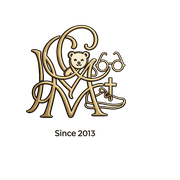
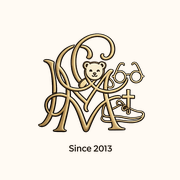
Add files via upload

Changed region(s): [[0.1389, 0.1389, 0.8056, 0.7778], [0.3611, 0.8056, 0.6389, 0.8611]]

diff --git a/index.html b/index.html
@@ -16,6 +16,7 @@ body::before{content:"";position:fixed;inset:0;background-image:var(--logo);back
 .page{display:none;padding:44px 0 84px}.page.active{display:block}.hero{padding:36px 0}.hero-card{position:relative;overflow:hidden;padding:54px;border-radius:40px;background:rgba(255,250,243,.84);border:1px solid var(--line);box-shadow:var(--shadow);display:grid;grid-template-columns:1.25fr .75fr;gap:34px}.cardmark{position:relative;overflow:hidden}.cardmark::after{content:"";position:absolute;right:18px;bottom:16px;width:92px;height:92px;background-image:var(--logo);background-size:cover;background-position:center;opacity:.22;pointer-events:none}.eyebrow{text-transform:uppercase;letter-spacing:.18em;color:var(--gold-deep);font-weight:800;font-size:12px;margin:0 0 14px}h1,h2,h3{font-family:var(--font);font-weight:500;margin:0}h1{font-size:clamp(48px,7vw,88px);line-height:.95;letter-spacing:-.04em}.hero-card p{font-size:18px;color:var(--muted);max-width:780px}.seal{background-image:var(--logo);background-size:cover;background-position:center;border-radius:34px;min-height:260px;box-shadow:inset 0 0 0 1px rgba(142,111,63,.2)}.seal.small{width:120px;height:120px;min-height:0;border-radius:28px;justify-self:end;align-self:center}
 .dashboard-grid{display:grid;grid-template-columns:repeat(3,1fr);gap:16px;margin-top:30px}.day-card{text-align:left;padding:22px;border-radius:26px;background:rgba(255,250,243,.88);border:1px solid var(--line);box-shadow:0 8px 26px rgba(77,55,30,.06);cursor:pointer;min-height:150px}.day-card b{display:block;font-family:var(--font);font-size:30px}.day-card span{display:block;color:var(--muted);font-size:14px;margin-top:8px}.day-card em{display:inline-block;margin-top:18px;color:var(--gold-deep);font-style:normal;font-weight:800}
 .day-hero{padding:34px;border-radius:34px;background:rgba(255,250,243,.86);border:1px solid var(--line);box-shadow:var(--shadow);display:grid;grid-template-columns:1fr auto;align-items:center;gap:22px}.day-hero h2{font-size:48px;letter-spacing:-.03em}.day-hero h3{font-family:var(--sans);font-size:22px;font-weight:650;color:var(--gold-deep);margin-top:4px}.block{margin-top:24px}.block>h3{font-size:30px;margin-bottom:14px}.glance-grid{display:grid;grid-template-columns:repeat(6,1fr);gap:12px}.glance-card{min-height:118px;background:rgba(255,250,243,.88);border:1px solid var(--line);border-radius:24px;padding:18px;box-shadow:0 10px 28px rgba(77,55,30,.06)}.gicon{font-size:28px;margin-bottom:10px}.glance-card b{display:block;font-size:12px;letter-spacing:.12em;text-transform:uppercase;color:var(--gold-deep)}.glance-card span{display:block;font-size:16px;margin-top:4px;font-weight:700}.today,.around,.final-card{background:rgba(255,250,243,.88);border:1px solid var(--line);border-radius:30px;padding:26px;box-shadow:0 12px 32px rgba(77,55,30,.06)}.today p{font-size:18px;color:#4c4036;margin:0}.timeline{display:grid;gap:10px}.timeline-row{background:rgba(255,250,243,.9);border:1px solid var(--line);border-radius:22px;padding:18px;display:grid;grid-template-columns:150px 18px 1fr;gap:14px;align-items:start}.time{font-family:var(--font);color:var(--gold-deep);font-weight:800}.dot{width:10px;height:10px;border-radius:50%;background:var(--gold);margin-top:9px;box-shadow:0 0 0 5px rgba(184,150,94,.13)}.tl-body h4,.activity h4{margin:0;font-size:18px}.tl-body p,.activity p{margin:6px 0 0;color:var(--muted)}.activity-grid{display:grid;grid-template-columns:repeat(2,1fr);gap:16px}.activity{background:rgba(255,250,243,.9);border:1px solid var(--line);border-radius:28px;padding:24px;box-shadow:0 12px 32px rgba(77,55,30,.07)}.activity-head{display:flex;align-items:flex-start;justify-content:space-between;gap:18px}.activity-head span{font-size:12px;color:var(--gold-deep);font-weight:800;letter-spacing:.12em;text-transform:uppercase}.meta{font-size:13px;color:var(--gold-deep);font-weight:800;margin-top:4px}.chips{display:flex;flex-wrap:wrap;gap:8px;margin-top:14px}.chips span{border:1px solid var(--line);border-radius:999px;padding:7px 10px;background:rgba(255,255,255,.48);font-size:12px;font-weight:800;color:var(--muted)}.reaction{display:flex;flex-wrap:wrap;gap:8px;margin:18px 0 12px}.reaction button,.comment-actions button,.mini-actions button{border:1px solid var(--line);background:#fffaf3;border-radius:999px;padding:9px 12px;font-weight:750;cursor:pointer}.reaction button.selected{background:var(--gold-deep);color:white}textarea{width:100%;min-height:82px;border:1px solid var(--line);border-radius:18px;padding:14px;background:rgba(255,255,255,.58);font-family:var(--sans);resize:vertical;color:var(--ink);font-size:16px;line-height:1.45;-webkit-text-size-adjust:100%}textarea[readonly]{background:rgba(255,250,243,.75)}.comment-actions{display:flex;align-items:center;gap:8px;margin-top:10px}.comment-actions span{color:var(--gold-deep);font-size:13px;font-weight:800}
+.map-link{display:inline-flex;align-items:center;gap:4px;margin-top:8px;font-size:12px;font-weight:800;color:var(--gold-deep);text-decoration:none;border:1px solid var(--line);border-radius:999px;padding:5px 10px;background:rgba(255,255,255,.5);width:fit-content}.map-link:hover,.map-link:active{background:rgba(184,150,94,.16)}
 /* Build 10.2.2: saved comment becomes read-only review block */
 .comment-box.is-saved textarea, [data-day-wrap].is-saved > textarea, [data-overall-review].is-saved > textarea{display:none}
 .saved-review-view{border:1px solid rgba(142,111,63,.22);border-radius:20px;background:rgba(255,250,243,.78);padding:14px 16px;margin-top:10px;box-shadow:0 8px 22px rgba(77,55,30,.05)}
@@ -693,7 +694,7 @@ with check (true);</pre>
 <div class="block"><h3>Review Points</h3><div class="activity-grid">
 <article class="activity cardmark" data-card="day1-pho-sol">
 <div class="activity-head">
-<div><h4><span class="tl-emoji">🍜</span>Phở SOL</h4><div class="meta">Arrival Lunch · Hotel Area</div></div>
+<div><h4><span class="tl-emoji">🍜</span>Phở SOL</h4><div class="meta">Arrival Lunch · Hotel Area</div><a class="map-link" href="https://www.google.com/maps/search/?api=1&query=Ph%E1%BB%9F%20SOL%20Ho%20Chi%20Minh%20City" target="_blank" rel="noopener">📍 睇地圖</a></div>
 <span>Selected meal</span>
 </div>
 <p>Day 1 第一餐安排在酒店附近，重點是穩陣、近、容易集合。石鍋河粉有記憶點，但仍然是輕鬆地道第一餐，不會太 heavy。</p>
@@ -716,7 +717,7 @@ with check (true);</pre>
 </article>
 <article class="activity cardmark" data-card="day1-classic-landmarks">
 <div class="activity-head">
-<div><h4><span class="tl-emoji">📍</span>三大經典地標</h4><div class="meta">Classic First Look · Free</div></div>
+<div><h4><span class="tl-emoji">📍</span>三大經典地標</h4><div class="meta">Classic First Look · Free</div><a class="map-link" href="https://www.google.com/maps/search/?api=1&query=Saigon%20Central%20Post%20Office" target="_blank" rel="noopener">📍 睇地圖</a></div>
 <span>Why this plan</span>
 </div>
 <p>這三個點都在酒店附近，適合第一天用最少交通完成西貢第一輪打卡。去完可以先 check-in 休息，也可以直接去 Café Apartments，保留最大彈性。</p>
@@ -739,7 +740,7 @@ with check (true);</pre>
 </article>
 <article class="activity cardmark" data-card="day1-nha-suga-premium">
 <div class="activity-head">
-<div><h4><span class="tl-emoji">🧖</span>Nha Suga Premium</h4><div class="meta">Arrival Spa · VND 500k–800k pp</div></div>
+<div><h4><span class="tl-emoji">🧖</span>Nha Suga Premium</h4><div class="meta">Arrival Spa · VND 500k–800k pp</div><a class="map-link" href="https://www.google.com/maps/search/?api=1&query=Nha%20Suga%20Spa%20Ho%20Chi%20Minh%20City" target="_blank" rel="noopener">📍 睇地圖</a></div>
 <span>Why this plan</span>
 </div>
 <p>抵達日不適合一直硬行。Nha Suga 放在 Café Apartments 同一段，是為了把逛、坐低、放鬆合併處理，讓大家在第一天慢慢進入旅程狀態。</p>
@@ -762,7 +763,7 @@ with check (true);</pre>
 </article>
 <article class="activity cardmark" data-card="day1-omakase-tiger">
 <div class="activity-head">
-<div><h4><span class="tl-emoji">🍷</span>Omakase Tiger</h4><div class="meta">Sunset Counter Dinner · AUD ~$60 pp</div></div>
+<div><h4><span class="tl-emoji">🍷</span>Omakase Tiger</h4><div class="meta">Sunset Counter Dinner · AUD ~$60 pp</div><a class="map-link" href="https://www.google.com/maps/search/?api=1&query=Omakase%20Tiger%20Ho%20Chi%20Minh%20City" target="_blank" rel="noopener">📍 睇地圖</a></div>
 <span>Why this plan</span>
 </div>
 <p>第一天以適應節奏為主。5:30 早場可以欣賞日落，又可提早完成晚餐，讓大家在長途飛行後慢慢調整狀態，不用第一晚已經食到太夜。</p>
@@ -812,7 +813,7 @@ with check (true);</pre>
 <div class="block"><h3>Review Points</h3><div class="activity-grid">
 <article class="activity cardmark" data-card="day2-com-tam-moc">
 <div class="activity-head">
-<div><h4><span class="tl-emoji">🍜</span>Cơm Tấm Mộc</h4><div class="meta">Vietnamese Breakfast · VND 60k–100k pp</div></div>
+<div><h4><span class="tl-emoji">🍜</span>Cơm Tấm Mộc</h4><div class="meta">Vietnamese Breakfast · VND 60k–100k pp</div><a class="map-link" href="https://www.google.com/maps/search/?api=1&query=C%C6%A1m%20T%E1%BA%A5m%20M%E1%BB%99c%20Ho%20Chi%20Minh%20City" target="_blank" rel="noopener">📍 睇地圖</a></div>
 <span>Why this plan</span>
 </div>
 <p>早餐不是為了食得豪，而是想在 Day 2 開始前試一次越南豬扒碎飯。份量可以 share，既有在地感，也不會令後面的 cooking class 太飽。</p>
@@ -835,7 +836,7 @@ with check (true);</pre>
 </article>
 <article class="activity cardmark" data-card="day2-saigon-cooking-class">
 <div class="activity-head">
-<div><h4><span class="tl-emoji">🍳</span>Saigon Cooking Class</h4><div class="meta">Shared Memory · AUD ~$50 pp</div></div>
+<div><h4><span class="tl-emoji">🍳</span>Saigon Cooking Class</h4><div class="meta">Shared Memory · AUD ~$50 pp</div><a class="map-link" href="https://www.google.com/maps/search/?api=1&query=Saigon%20Cooking%20Class%20Ho%20Chi%20Minh%20City" target="_blank" rel="noopener">📍 睇地圖</a></div>
 <span>Why this plan</span>
 </div>
 <p>這段不只是午餐，而是四個朋友一起完成的 shared memory。由學、煮到食，參與感比單純打卡更強，是 Day 2 最值得保留的核心活動。</p>
@@ -858,7 +859,7 @@ with check (true);</pre>
 </article>
 <article class="activity cardmark" data-card="day2-moc-kim-spa">
 <div class="activity-head">
-<div><h4><span class="tl-emoji">🧖</span>Mộc Kim Spa</h4><div class="meta">Post-class Reset · Check package</div></div>
+<div><h4><span class="tl-emoji">🧖</span>Mộc Kim Spa</h4><div class="meta">Post-class Reset · Check package</div><a class="map-link" href="https://www.google.com/maps/search/?api=1&query=M%E1%BB%99c%20Kim%20Spa%20Ho%20Chi%20Minh%20City" target="_blank" rel="noopener">📍 睇地圖</a></div>
 <span>Why this plan</span>
 </div>
 <p>Cooking class 到 1 點完，直接去 Spa 是為了讓下午先有一段真正休息。做完草本洗頭與 head spa，再去逛街會舒服得多。</p>
@@ -881,7 +882,7 @@ with check (true);</pre>
 </article>
 <article class="activity cardmark" data-card="day2-lune">
 <div class="activity-head">
-<div><h4><span class="tl-emoji">🍷</span>LÚNE</h4><div class="meta">Michelin Selected French · VND 800k–1.5m pp</div></div>
+<div><h4><span class="tl-emoji">🍷</span>LÚNE</h4><div class="meta">Michelin Selected French · VND 800k–1.5m pp</div><a class="map-link" href="https://www.google.com/maps/search/?api=1&query=L%C3%9ANE%20Ho%20Chi%20Minh%20City" target="_blank" rel="noopener">📍 睇地圖</a></div>
 <span>Why this plan</span>
 </div>
 <p>LÚNE 放在 Day 2，是因為它接在 D1 shopping 後最順路，而且能滿足旅程中一餐較正式的法餐體驗。相比之後的 Quince，它更偏 contemporary French 與 Michelin selected 的精緻感。</p>
@@ -929,12 +930,14 @@ with check (true);</pre>
 <div class="block today cardmark"><h3>Today’s Plan</h3><p>Day 3 是文青日，不追求逛盡每一間店，而是把 Thảo Điền 當成一個慢生活 neighbourhood。上午先完成蟹肉粉絲與粉紅教堂，再過橋到草田。下午茶、OHQUAO、Mộc Hương、Louh 和 Little Bear 連成一條較舒服的節奏，食唔食、食幾多都由大家自己 buffer。</p></div>
 <div class="block"><h3>Timeline</h3><div class="timeline"><div class="timeline-row cardmark"><div class="time">09:00 – 10:00</div><div class="dot"></div><div class="tl-body"><h4><span class="tl-emoji">🍜</span>Quán Thuý 94</h4><p>蟹肉粉絲早餐，之後步行約 5 分鐘到粉紅教堂。</p></div></div><div class="timeline-row cardmark"><div class="time">10:00 – 10:45</div><div class="dot"></div><div class="tl-body"><h4><span class="tl-emoji">🏛️</span>Pink Church + Cộng Cà Phê</h4><p>快閃打卡；可在 Cộng Cà Phê 高層坐一坐。</p></div></div><div class="timeline-row cardmark"><div class="time">10:45 – 11:30</div><div class="dot"></div><div class="tl-body"><h4><span class="tl-emoji">🚕</span>Grab → Thảo Điền</h4><p>跨橋到草田區，開啟 slower neighbourhood day。</p></div></div><div class="timeline-row cardmark"><div class="time">11:45 – 13:00</div><div class="dot"></div><div class="tl-body"><h4><span class="tl-emoji">🛍️</span>Lifestyle Walk</h4><p>Saigon Concept → In the Mood → Soo Kafe 外帶蛋撻 → YouOn Boutique。</p></div></div><div class="timeline-row cardmark"><div class="time">13:00 – 14:00</div><div class="dot"></div><div class="tl-body"><h4><span class="tl-emoji">☕</span>Afternoon Tea</h4><p>Bakes 或 The Dreamers。食唔食、食幾多自己 buffer；重點是坐低休息。</p></div></div><div class="timeline-row cardmark"><div class="time">14:30 – 15:00</div><div class="dot"></div><div class="tl-body"><h4><span class="tl-emoji">🛍️</span>OHQUAO Living</h4><p>藝術家明信片、香氛、手工藝品。放 Spa 前，趁仍有精神慢慢睇。</p></div></div><div class="timeline-row cardmark"><div class="time">15:30 – 17:30</div><div class="dot"></div><div class="tl-body"><h4><span class="tl-emoji">🧖</span>Mộc Hương Wellness</h4><p>白色法式別墅、蒸氣房、草本熱石水療；可寄存戰利品。</p></div></div><div class="timeline-row cardmark"><div class="time">17:30 – 18:00</div><div class="dot"></div><div class="tl-body"><h4><span class="tl-emoji">🛍️</span>Louh × Alouane</h4><p>高級棉織品家居服，Spa 後慢慢逛，讓節奏降下來。</p></div></div><div class="timeline-row cardmark"><div class="time">18:30 – 20:30</div><div class="dot"></div><div class="tl-body"><h4><span class="tl-emoji">🍷</span>Little Bear</h4><p>Creative Vietnamese，Michelin Guide 入選。Mộc Hương 到 Little Bear 約 3 分鐘 Grab。</p></div></div></div></div>
 <div class="block"><h3>Review Points</h3><div class="activity-grid"><article class="activity cardmark" data-card="day3-quan-thuy-94">
-<div class="activity-head"><div><h4><span class="tl-emoji">🍜</span>Quán Thuý 94</h4><div class="meta">Breakfast · Crab Vermicelli</div></div><span>Selected meal</span></div>
+<div class="activity-head"><div><h4><span class="tl-emoji">🍜</span>Quán Thuý 94</h4><div class="meta">Breakfast · Crab Vermicelli</div><a class="map-link" href="https://www.google.com/maps/search/?api=1&query=Qu%C3%A1n%20Thu%C3%BD%2094%20Ho%20Chi%20Minh%20City" target="_blank" rel="noopener">📍 睇地圖</a></div>
+<span>Selected meal</span></div>
 <p>Day 3 早餐用蟹肉粉絲開場，之後順路去粉紅教堂。這餐是地道小店感覺，適合放在文青日之前，先補一個 local food memory。</p><div class="chips"><span>Breakfast</span><span>Crab vermicelli</span><span>Near Pink Church</span></div>
 <div class="reaction"><button data-reaction="keep">👍 Keep</button><button data-reaction="discuss">🤔 Discuss</button><button data-reaction="replace">🔁 Replace</button></div>
 <div class="comment-box"><textarea placeholder="Optional comment / 對 Quán Thuý 94 有咩想法…"></textarea><div class="comment-actions"><button data-save="">Save</button><button data-edit="" hidden="">Edit</button><button data-clear="" hidden="">Clear</button><span data-status=""></span></div><div class="review-thread" data-thread=""></div></div>
 </article><article class="activity cardmark" data-card="day3-pink-church">
-<div class="activity-head"><div><h4><span class="tl-emoji">🏛️</span>Pink Church + Cộng Cà Phê</h4><div class="meta">Photo Stop · District 3</div></div><span>Selected sight</span></div>
+<div class="activity-head"><div><h4><span class="tl-emoji">🏛️</span>Pink Church + Cộng Cà Phê</h4><div class="meta">Photo Stop · District 3</div><a class="map-link" href="https://www.google.com/maps/search/?api=1&query=T%C3%A2n%20%C4%90%E1%BB%8Bnh%20Church%20Ho%20Chi%20Minh%20City" target="_blank" rel="noopener">📍 睇地圖</a></div>
+<span>Selected sight</span></div>
 <p>粉紅教堂是快閃景點，不會佔太多體力；Cộng Cà Phê 作為短暫冷氣位，讓大家拍完照可以坐一坐再過橋去 Thảo Điền。</p><div class="chips"><span>Photo stop</span><span>Short visit</span><span>Cooling break</span></div>
 <div class="reaction"><button data-reaction="keep">👍 Keep</button><button data-reaction="discuss">🤔 Discuss</button><button data-reaction="replace">🔁 Replace</button></div>
 <div class="comment-box"><textarea placeholder="Optional comment / 對粉紅教堂呢段有咩想法…"></textarea><div class="comment-actions"><button data-save="">Save</button><button data-edit="" hidden="">Edit</button><button data-clear="" hidden="">Clear</button><span data-status=""></span></div><div class="review-thread" data-thread=""></div></div>
@@ -966,7 +969,7 @@ with check (true);</pre>
 
 <article class="activity cardmark" data-card="day3-moc-huong-wellness">
 <div class="activity-head">
-<div><h4><span class="tl-emoji">🧖</span>Mộc Hương Wellness</h4><div class="meta">French Villa Spa · VND 700k–1.1m pp</div></div>
+<div><h4><span class="tl-emoji">🧖</span>Mộc Hương Wellness</h4><div class="meta">French Villa Spa · VND 700k–1.1m pp</div><a class="map-link" href="https://www.google.com/maps/search/?api=1&query=M%E1%BB%99c%20H%C6%B0%C6%A1ng%20Wellness%20Ho%20Chi%20Minh%20City" target="_blank" rel="noopener">📍 睇地圖</a></div>
 <span>Why this plan</span>
 </div>
 <p>Mộc Hương 是 Day 3 的中段 reset。白色法式別墅、蒸氣房與熱石按摩適合放在逛街後，讓身體真正慢下來，再進入晚餐前的輕鬆節奏。</p>
@@ -990,7 +993,7 @@ with check (true);</pre>
 
 <article class="activity cardmark" data-card="day3-little-bear">
 <div class="activity-head">
-<div><h4><span class="tl-emoji">🍷</span>Little Bear</h4><div class="meta">Creative Vietnamese · VND 600k–1m pp</div></div>
+<div><h4><span class="tl-emoji">🍷</span>Little Bear</h4><div class="meta">Creative Vietnamese · VND 600k–1m pp</div><a class="map-link" href="https://www.google.com/maps/search/?api=1&query=Little%20Bear%20Restaurant%20Ho%20Chi%20Minh%20City" target="_blank" rel="noopener">📍 睇地圖</a></div>
 <span>Why this plan</span>
 </div>
 <p>Little Bear 放在 Day 3，不是因為順路，而是因為它最適合作為文青日的結尾。比正式 fine dining 更 chill，更適合逛完整天後慢慢聊天、分享菜式。</p>
@@ -1040,7 +1043,7 @@ with check (true);</pre>
 <div class="block"><h3>Review Points</h3><div class="activity-grid">
 <article class="activity cardmark" data-card="day4-the-running-bean">
 <div class="activity-head">
-<div><h4><span class="tl-emoji">☕</span>The Running Bean</h4><div class="meta">Breakfast Coffee Stop · $</div></div>
+<div><h4><span class="tl-emoji">☕</span>The Running Bean</h4><div class="meta">Breakfast Coffee Stop · $</div><a class="map-link" href="https://www.google.com/maps/search/?api=1&query=The%20Running%20Bean%20Ho%20Chi%20Minh%20City" target="_blank" rel="noopener">📍 睇地圖</a></div>
 <span>Why this plan</span>
 </div>
 <p>Running Bean 放在 Day 4 早餐，是為了用一個簡單、舒服、容易集合的 coffee stop 開始博物館日。這張卡可以確認大家想保留西式早餐咖啡，還是改回更地道早餐。</p>
@@ -1063,7 +1066,7 @@ with check (true);</pre>
 </article>
 <article class="activity cardmark" data-card="day4-pizza-4ps">
 <div class="activity-head">
-<div><h4><span class="tl-emoji">🍜</span>Pizza 4P's</h4><div class="meta">Local Must-try Pizza · VND 200k–350k pp</div></div>
+<div><h4><span class="tl-emoji">🍜</span>Pizza 4P's</h4><div class="meta">Local Must-try Pizza · VND 200k–350k pp</div><a class="map-link" href="https://www.google.com/maps/search/?api=1&query=Pizza%204P%27s%20Hai%20Ba%20Trung%20Ho%20Chi%20Minh%20City" target="_blank" rel="noopener">📍 睇地圖</a></div>
 <span>Why this plan</span>
 </div>
 <p>Pizza 4P’s 放在 lunch，是因為它幾乎是胡志明不能錯過的本地 pizza 品牌。午餐試會比晚餐輕鬆，也能為 Quince 保留晚上的食慾。</p>
@@ -1086,7 +1089,7 @@ with check (true);</pre>
 </article>
 <article class="activity cardmark" data-card="day4-temple-leaf-spa-land">
 <div class="activity-head">
-<div><h4><span class="tl-emoji">🧖</span>Temple Leaf Spa Land</h4><div class="meta">Foot + Body Reset · VND 530k–630k pp</div></div>
+<div><h4><span class="tl-emoji">🧖</span>Temple Leaf Spa Land</h4><div class="meta">Foot + Body Reset · VND 530k–630k pp</div><a class="map-link" href="https://www.google.com/maps/search/?api=1&query=Temple%20Leaf%20Spa%20Land%20Ho%20Chi%20Minh%20City" target="_blank" rel="noopener">📍 睇地圖</a></div>
 <span>Why this plan</span>
 </div>
 <p>Temple Leaf 放在 Phú Nhuận shopping 後，是為了讓晚餐前有一段真正休息。足底、熱石與六樓花園放鬆區，剛好把白天的城市節奏降下來。</p>
@@ -1109,7 +1112,7 @@ with check (true);</pre>
 </article>
 <article class="activity cardmark" data-card="day4-quince">
 <div class="activity-head">
-<div><h4><span class="tl-emoji">🍷</span>Quince</h4><div class="meta">Wood-fired Contemporary European · $$$</div></div>
+<div><h4><span class="tl-emoji">🍷</span>Quince</h4><div class="meta">Wood-fired Contemporary European · $$$</div><a class="map-link" href="https://www.google.com/maps/search/?api=1&query=Quince%20Saigon%20Ho%20Chi%20Minh%20City" target="_blank" rel="noopener">📍 睇地圖</a></div>
 <span>Why this plan</span>
 </div>
 <p>Quince 是另一種法餐方向：比 LÚNE 更有窯烤、open kitchen 與 relaxed dining 氣氛。放在最後一晚，是想用一餐成熟但不拘謹的 dinner 作為旅程高點。</p>
@@ -1159,7 +1162,7 @@ with check (true);</pre>
 <div class="block"><h3>Review Points</h3><div class="activity-grid">
 <article class="activity cardmark" data-card="day5-pho-viet-nam">
 <div class="activity-head">
-<div><h4><span class="tl-emoji">🍜</span>Phở Việt Nam + 美術館</h4><div class="meta">Farewell Morning · VND 100k–150k pp + entry</div></div>
+<div><h4><span class="tl-emoji">🍜</span>Phở Việt Nam + 美術館</h4><div class="meta">Farewell Morning · VND 100k–150k pp + entry</div><a class="map-link" href="https://www.google.com/maps/search/?api=1&query=Museum%20of%20Fine%20Arts%20Ho%20Chi%20Minh%20City" target="_blank" rel="noopener">📍 睇地圖</a></div>
 <span>Why this plan</span>
 </div>
 <p>最後一日上午不再跨區，所有安排都在酒店附近。河粉與美術館步行可接，既保留最後一組照片，也降低趕機風險。</p>
@@ -1182,7 +1185,7 @@ with check (true);</pre>
 </article>
 <article class="activity cardmark" data-card="day5-bep-me-in">
 <div class="activity-head">
-<div><h4><span class="tl-emoji">🍜</span>Bếp Mẹ Ỉn</h4><div class="meta">Farewell Lunch · VND 200k–350k pp</div></div>
+<div><h4><span class="tl-emoji">🍜</span>Bếp Mẹ Ỉn</h4><div class="meta">Farewell Lunch · VND 200k–350k pp</div><a class="map-link" href="https://www.google.com/maps/search/?api=1&query=B%E1%BA%BFp%20M%E1%BA%B9%20%E1%BB%88n%20Ho%20Chi%20Minh%20City" target="_blank" rel="noopener">📍 睇地圖</a></div>
 <span>Why this plan</span>
 </div>
 <p>Bếp Mẹ Ỉn 放在最後一日，是因為它是傳統越菜、容易分享，又在酒店生活圈附近。比起再追新區域，這餐更適合作為西貢味道的收結。</p>
@@ -1205,7 +1208,7 @@ with check (true);</pre>
 </article>
 <article class="activity cardmark" data-card="day5-h-spa">
 <div class="activity-head">
-<div><h4><span class="tl-emoji">🧖</span>Hạ Spa</h4><div class="meta">Pre-flight Reset · Check package</div></div>
+<div><h4><span class="tl-emoji">🧖</span>Hạ Spa</h4><div class="meta">Pre-flight Reset · Check package</div><a class="map-link" href="https://www.google.com/maps/search/?api=1&query=H%E1%BA%A1%20Spa%20Ho%20Chi%20Minh%20City" target="_blank" rel="noopener">📍 睇地圖</a></div>
 <span>Why this plan</span>
 </div>
 <p>Hạ Spa 最大價值是近機場。把最後一段時間移到機場旁邊，可以避開下班塞車，也讓大家在登機前真正放鬆，而不是拖住行李等時間。</p>